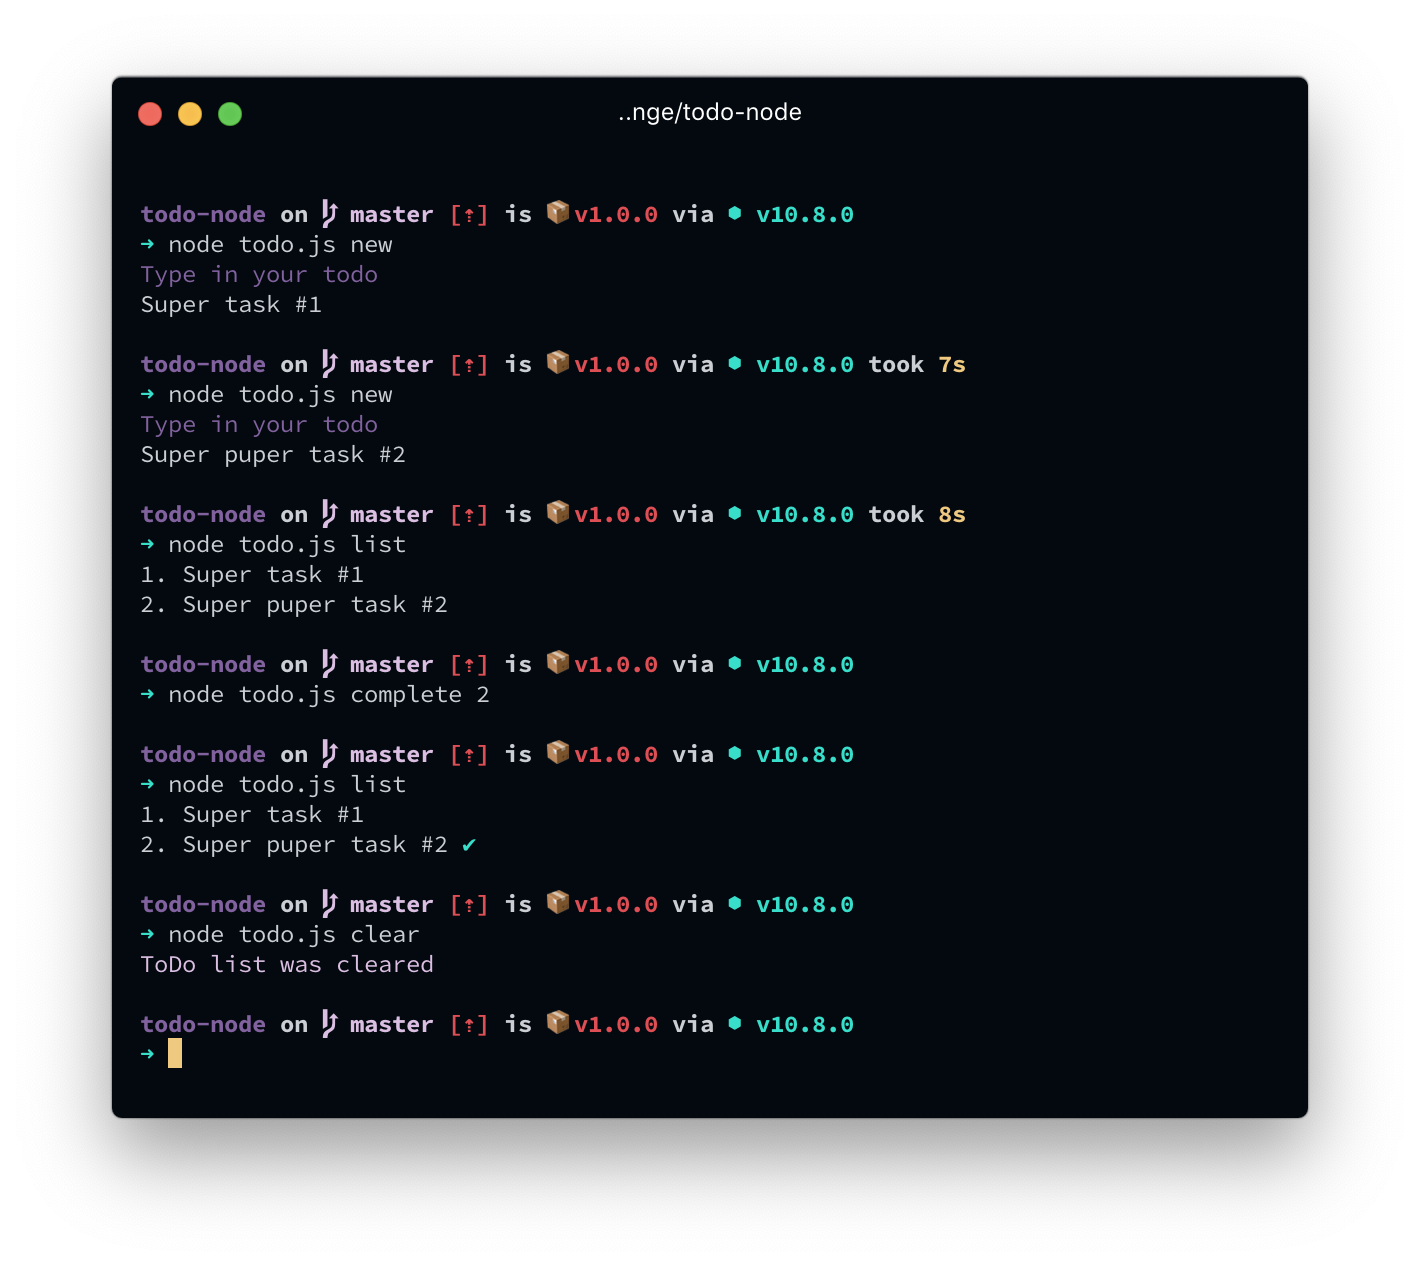
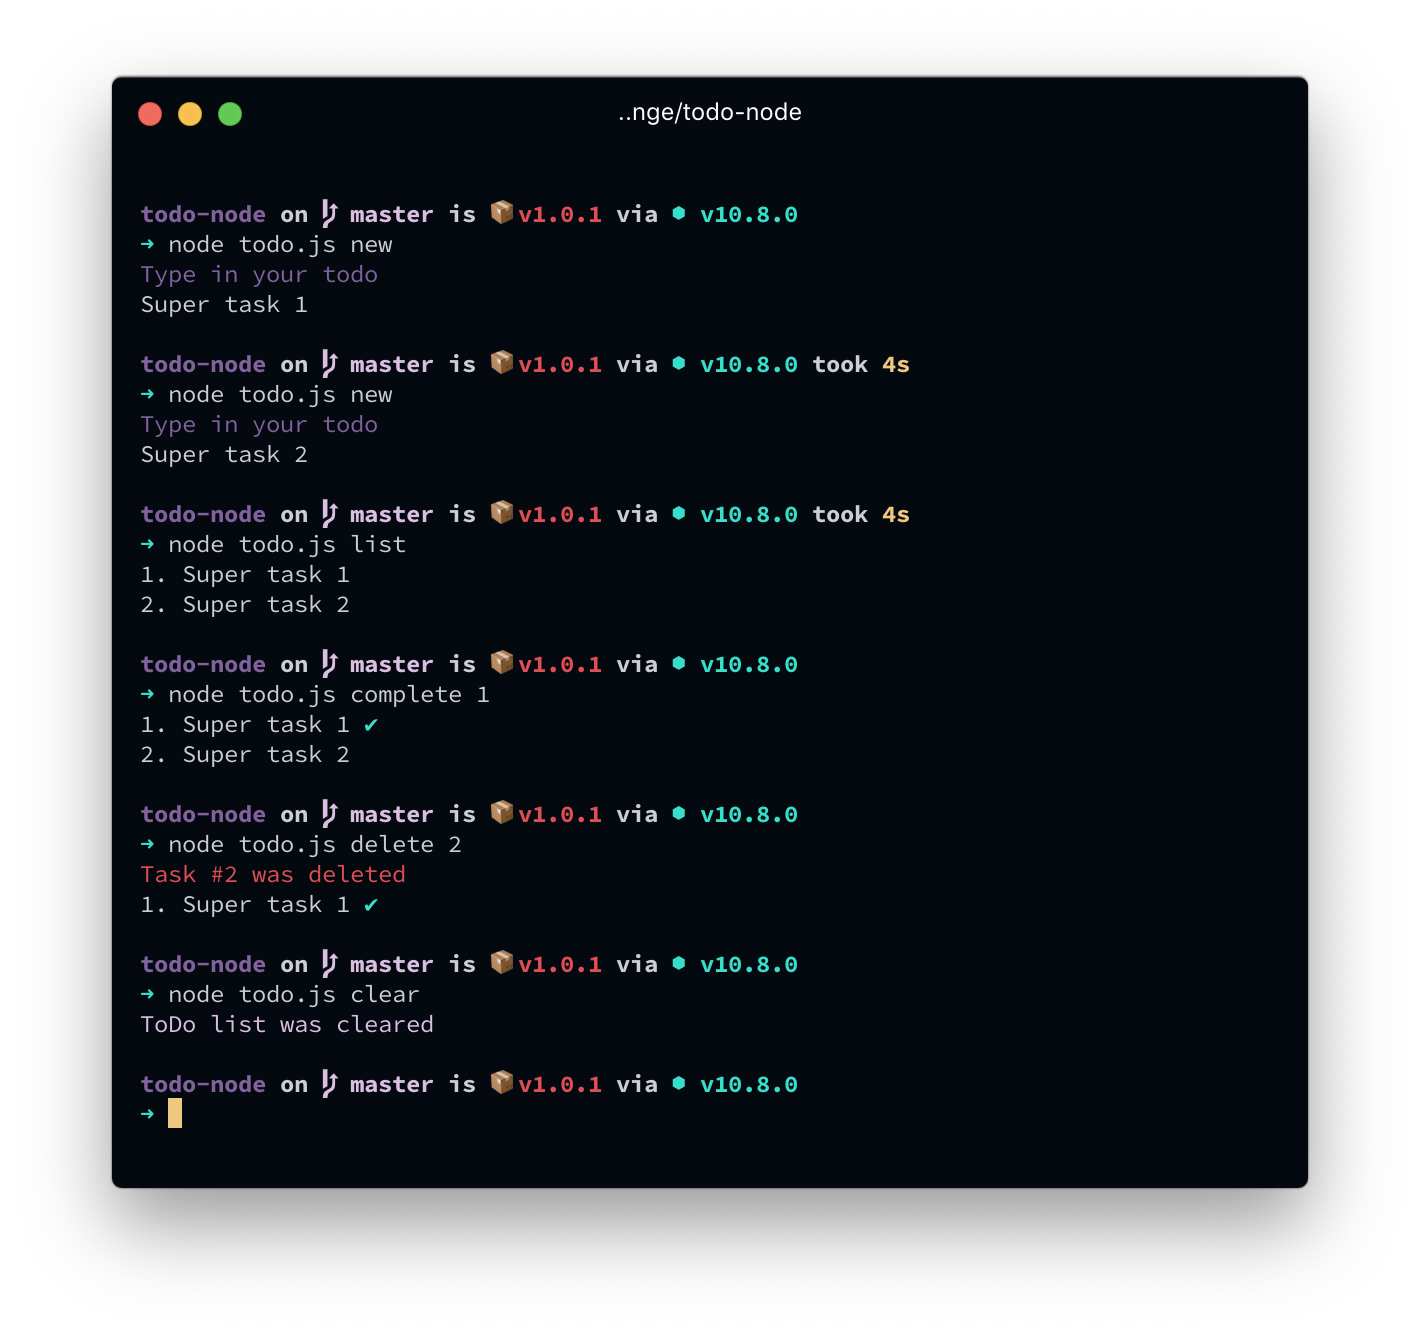
readme and screenshot updated

diff --git a/README.md b/README.md
@@ -1,5 +1,13 @@
 # ToDo app written in node.js
 
+> Uploaded as alfredik
+
+## Install
+
+```zsh
+npm install alfredik -g
+```
+
 ## Run in dev mode
 
 ```sh
@@ -11,6 +19,14 @@ npm i
 ```
 
 ## Usage
+
+via npm
+
+```zsh
+alfredik new
+```
+
+dev mod
 
 ```zsh
 node todo.js new
